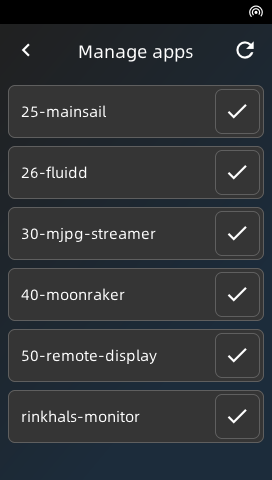
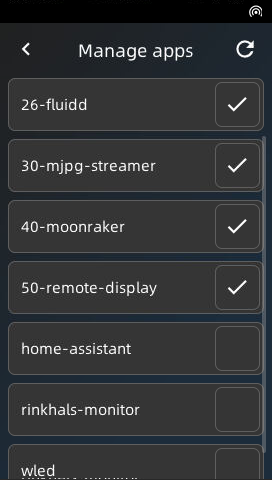
Update README with App Store feature, screenshots and contributor credit
- Touch UI section: describe 2x2 grid layout and all four menu areas
- Apps system: add App Store subsection explaining touchscreen browsing/install flow
- Add ui-app-store.png, ui-app-store-detail.png; update ui-main.png and ui-apps.png
- Contributing: add clutchthrower to special thanks for the App Store

diff --git a/README.md b/README.md
@@ -91,15 +91,17 @@ For more information about installation, firmware updates and details about spec
 
 After installation, Rinkhals provides a touch UI accessible from the printer screen when you tap the Settings icon, then tap Rinkhals.
 
-This UI allows you to manage installed apps, trigger an OTA update, reboot your printer and much more. This will allow you to customize your experience and keep the printer memory as low as needed based on your needs.
+The main menu gives you quick access to four areas arranged in a 2×2 grid:
+- **Manage apps** — enable, disable, start and stop individual apps
+- **App Store** — browse and install community apps directly from the printer screen (see below)
+- **Updates** — check for and apply OTA Rinkhals updates
+- **Settings** — advanced options, reboot controls and system information
 
 <p align="center">
-    <!-- <img width="192" src="./.github/images/screenshot-settings.png"> -->
     <img width="192" src="./docs/docs/assets/rinkhals-ui/ui-main.png">
     <img width="192" src="./docs/docs/assets/rinkhals-ui/ui-apps.png">
-    <img width="192" src="./docs/docs/assets/rinkhals-ui/ui-apps-moonraker.png">
+    <img width="192" src="./docs/docs/assets/rinkhals-ui/ui-app-store.png">
     <img width="192" src="./docs/docs/assets/rinkhals-ui/ui-updates.png">
-    <!-- <img width="192" src="./.github/images/screenshot-rinkhals-advanced.png"> -->
 </p>
 
 ## Rinkhals Installer
@@ -119,6 +121,17 @@ An apps system is provided in Rinkhals. It allows for the users to easily add so
 - https://github.com/basvd/Rinkhals.WebUI (a web interface for Rinkhals)
 
 Instructions on how to install or develop apps are on the other repo as well.
+
+### App Store
+
+The Rinkhals Touch UI includes a built-in **App Store** that lets you browse, install and remove community apps without leaving the printer screen. Apps are sourced directly from [jbatonnet/Rinkhals.Apps](https://github.com/jbatonnet/Rinkhals.Apps) on GitHub.
+
+<p align="center">
+    <img width="192" src="./docs/docs/assets/rinkhals-ui/ui-app-store.png">
+    <img width="192" src="./docs/docs/assets/rinkhals-ui/ui-app-store-detail.png">
+</p>
+
+To use it, open the Rinkhals Touch UI and tap **App Store**. The store will fetch the latest app list, show version info and flag already-installed apps. Tap any app to see its description, then tap **Install** or **Remove** as needed.
 
 
 <p align="center">
@@ -153,4 +166,5 @@ Special thanks to those people for providing the base research and helping suppo
 - **evil_santa**, **CalmFrog**, **basvd**, **_René**, **RadioRadio** and more for Kobra 3 Max support.
 - **AndrewS** for ethernet adapters USB testing and Kobra X firmware dump.
 - **Ac_K** for passwords and technical discovery of Kobra X.
+- **clutchthrower** for the built-in App Store in the Touch UI.
 - Anycubic for the cool printer and the few OSS items. (https://github.com/ANYCUBIC-3D/Kobra)